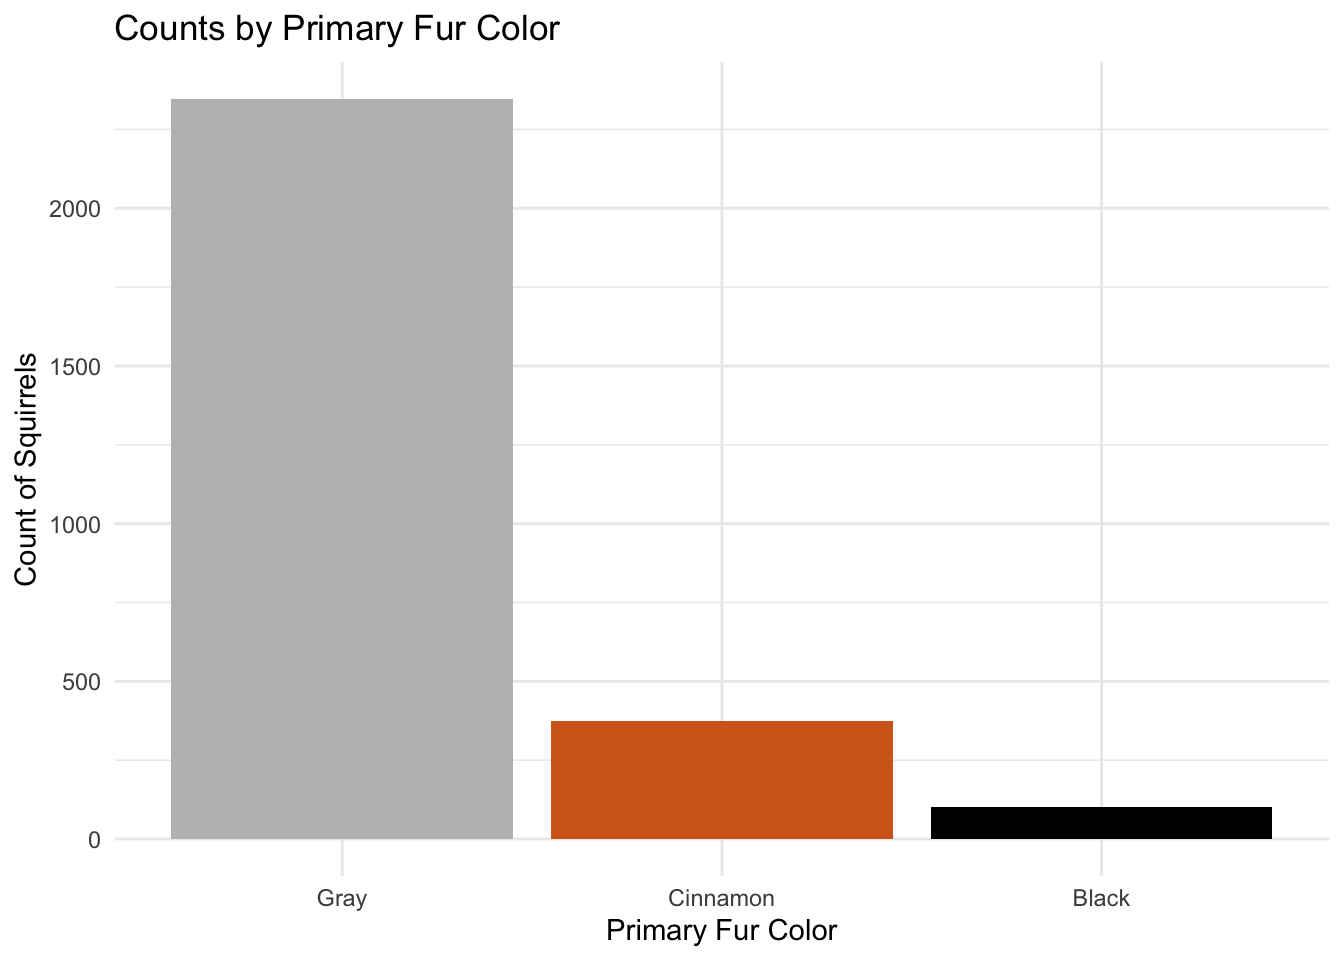
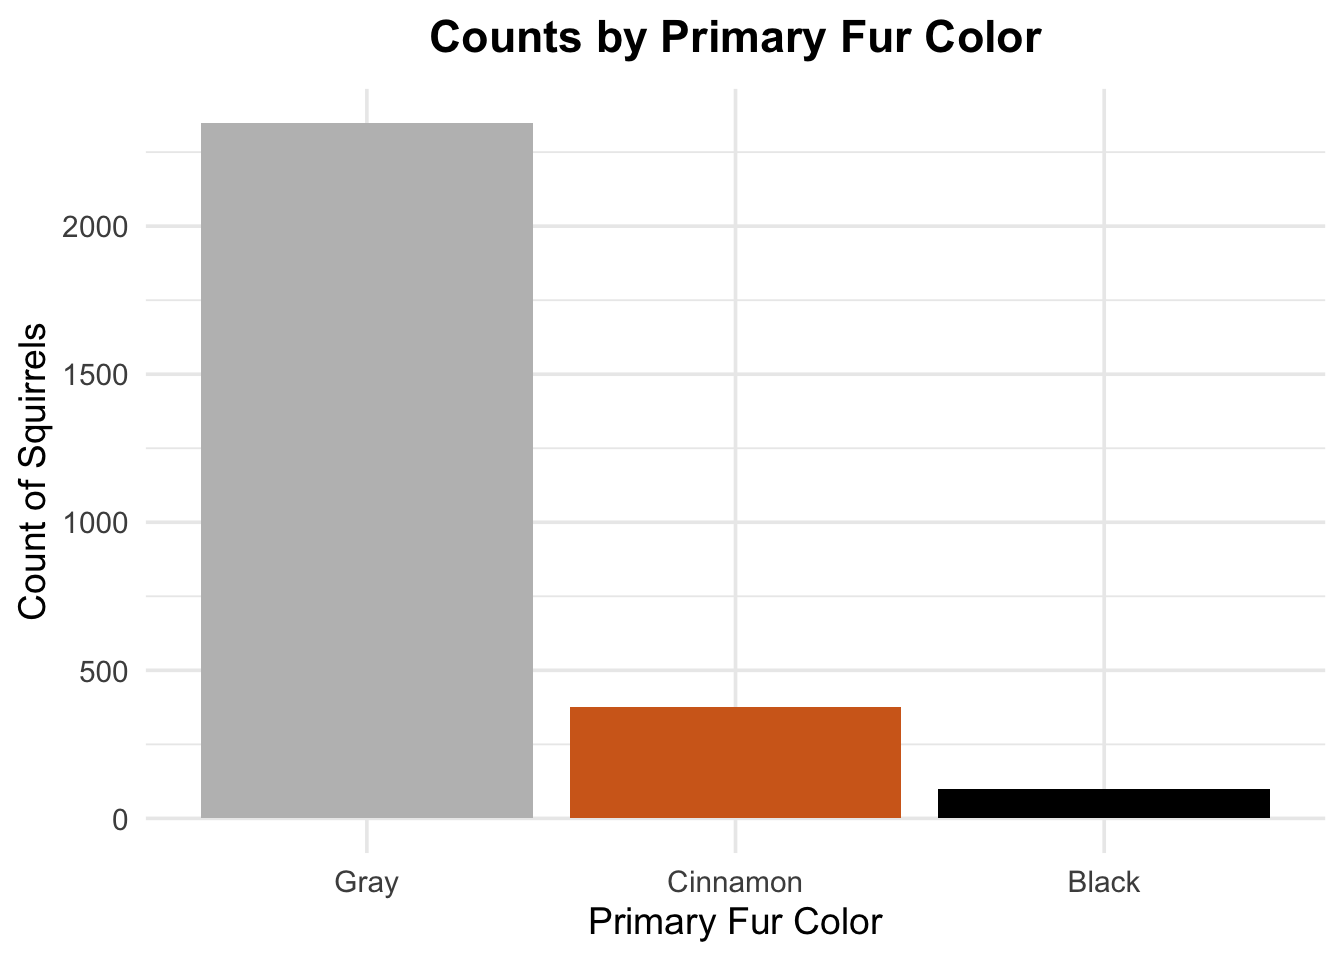
Last Update

diff --git a/docs/results.html b/docs/results.html
@@ -561,7 +561,7 @@ pre > code.sourceCode > span > a:first-child::before { text-decoration: underlin
 </section>
 <section id="exploration-of-squirrels-of-different-primary-fur-color" class="level2" data-number="3.2">
 <h2 data-number="3.2" class="anchored" data-anchor-id="exploration-of-squirrels-of-different-primary-fur-color"><span class="header-section-number">3.2</span> Exploration of squirrels of different Primary Fur Color</h2>
-<p><strong>General Questions</strong>: How do black, cinnamon and standard gray morphs of Eastern Gray squirrels (Sciurus Carolinensis) differ in their spatial distributions and activity patterns in Central Park?</p>
+<p>While all these squirrels are Eastern Gray squirrels, not all of them have gray fur color. The Primary Fur Color column in our dataset documents the color of the squirrels being sighted. We wonder if there is any interesting difference if we look at squirrels with different colors separately. We will explore that in this section.</p>
 <section id="what-is-the-total-number-of-sightings-of-black-cinnamon-and-gray-morphs-of-eastern-gray-squirrels-within-central-park" class="level3" data-number="3.2.1">
 <h3 data-number="3.2.1" class="anchored" data-anchor-id="what-is-the-total-number-of-sightings-of-black-cinnamon-and-gray-morphs-of-eastern-gray-squirrels-within-central-park"><span class="header-section-number">3.2.1</span> What is the total number of sightings of black, cinnamon, and gray morphs of Eastern Gray squirrels within Central Park?</h3>
 <div class="cell">
@@ -570,13 +570,15 @@ pre > code.sourceCode > span > a:first-child::before { text-decoration: underlin
 <div class="sourceCode cell-code" id="cb8"><pre class="sourceCode r code-with-copy"><code class="sourceCode r"><span id="cb8-1"><a href="#cb8-1" aria-hidden="true" tabindex="-1"></a><span class="fu">ggplot</span>(squirrel_data, <span class="fu">aes</span>(<span class="at">x =</span> <span class="fu">fct_infreq</span>(Primary.Fur.Color), <span class="at">fill =</span> Primary.Fur.Color)) <span class="sc">+</span></span>
 <span id="cb8-2"><a href="#cb8-2" aria-hidden="true" tabindex="-1"></a>  <span class="fu">geom_bar</span>() <span class="sc">+</span></span>
 <span id="cb8-3"><a href="#cb8-3" aria-hidden="true" tabindex="-1"></a>  <span class="fu">labs</span>(</span>
-<span id="cb8-4"><a href="#cb8-4" aria-hidden="true" tabindex="-1"></a>    <span class="at">title =</span> <span class="st">"Counts by Primary Fur Color"</span>,</span>
+<span id="cb8-4"><a href="#cb8-4" aria-hidden="true" tabindex="-1"></a>    <span class="at">title =</span> <span class="fu">expression</span>(<span class="fu">bold</span>(<span class="st">"Counts by Primary Fur Color"</span>)),</span>
 <span id="cb8-5"><a href="#cb8-5" aria-hidden="true" tabindex="-1"></a>    <span class="at">x =</span> <span class="st">"Primary Fur Color"</span>,</span>
 <span id="cb8-6"><a href="#cb8-6" aria-hidden="true" tabindex="-1"></a>    <span class="at">y =</span> <span class="st">"Count of Squirrels"</span></span>
 <span id="cb8-7"><a href="#cb8-7" aria-hidden="true" tabindex="-1"></a>  ) <span class="sc">+</span></span>
-<span id="cb8-8"><a href="#cb8-8" aria-hidden="true" tabindex="-1"></a>  <span class="fu">theme</span>(<span class="at">legend.position =</span> <span class="st">"none"</span>) <span class="sc">+</span></span>
-<span id="cb8-9"><a href="#cb8-9" aria-hidden="true" tabindex="-1"></a>  <span class="fu">theme_minimal</span>() <span class="sc">+</span></span>
-<span id="cb8-10"><a href="#cb8-10" aria-hidden="true" tabindex="-1"></a>  <span class="fu">scale_fill_manual</span>(<span class="at">values =</span> <span class="fu">c</span>(<span class="st">'black'</span>, <span class="st">'#D2691E'</span>, <span class="st">'grey'</span>), <span class="at">guide =</span> <span class="cn">FALSE</span>) </span></code><button title="Copy to Clipboard" class="code-copy-button"><i class="bi"></i></button></pre></div>
+<span id="cb8-8"><a href="#cb8-8" aria-hidden="true" tabindex="-1"></a>  <span class="fu">theme_minimal</span>(<span class="dv">14</span>) <span class="sc">+</span></span>
+<span id="cb8-9"><a href="#cb8-9" aria-hidden="true" tabindex="-1"></a>  <span class="fu">theme</span>(</span>
+<span id="cb8-10"><a href="#cb8-10" aria-hidden="true" tabindex="-1"></a>    <span class="at">legend.position =</span> <span class="st">"none"</span>,</span>
+<span id="cb8-11"><a href="#cb8-11" aria-hidden="true" tabindex="-1"></a>    <span class="at">plot.title =</span> <span class="fu">element_text</span>(<span class="at">hjust =</span> <span class="fl">0.5</span>)) <span class="sc">+</span></span>
+<span id="cb8-12"><a href="#cb8-12" aria-hidden="true" tabindex="-1"></a>  <span class="fu">scale_fill_manual</span>(<span class="at">values =</span> <span class="fu">c</span>(<span class="st">'black'</span>, <span class="st">'#D2691E'</span>, <span class="st">'grey'</span>), <span class="at">guide =</span> <span class="cn">FALSE</span>) </span></code><button title="Copy to Clipboard" class="code-copy-button"><i class="bi"></i></button></pre></div>
 </details>
 <div class="cell-output-display">
 <div>
@@ -586,23 +588,27 @@ pre > code.sourceCode > span > a:first-child::before { text-decoration: underlin
 </div>
 </div>
 </div>
-<p>The bar plot shows that Eastern Gray squirrels with gray fur are the most commonly sighted in Central Park, with over 2,000 observations. Cinnamon-colored squirrels are less common, with several hundred sightings, while black-colored squirrels are the rarest, with fewer than 500 sightings. This is reasonable since Eastern Gray squirrels are the most prevalent squirrels in the central park.</p>
+<p>The bar plot shows that Eastern Gray squirrels with gray fur are the most commonly sighted in Central Park, with over 2,000 encounters. Cinnamon-colored squirrels are less common, with less than 500 sightings, while black-colored squirrels are the rarest, with fewer than 250 sightings.</p>
 </section>
 <section id="what-is-the-spatial-distribution-of-black-cinnamon-and-gray-morphs-of-eastern-gray-squirrels-across-central-park" class="level3" data-number="3.2.2">
 <h3 data-number="3.2.2" class="anchored" data-anchor-id="what-is-the-spatial-distribution-of-black-cinnamon-and-gray-morphs-of-eastern-gray-squirrels-across-central-park"><span class="header-section-number">3.2.2</span> What is the spatial distribution of black, cinnamon, and gray morphs of Eastern Gray squirrels across Central Park?</h3>
 <div class="cell">
 <details class="code-fold">
 <summary>Code</summary>
-<div class="sourceCode cell-code" id="cb9"><pre class="sourceCode r code-with-copy"><code class="sourceCode r"><span id="cb9-1"><a href="#cb9-1" aria-hidden="true" tabindex="-1"></a>coord_sf_obj <span class="ot">&lt;-</span> squirrel_data <span class="sc">|&gt;</span></span>
-<span id="cb9-2"><a href="#cb9-2" aria-hidden="true" tabindex="-1"></a>  <span class="fu">st_as_sf</span>(<span class="at">coords =</span> <span class="fu">c</span>(<span class="st">'X'</span>, <span class="st">'Y'</span>), <span class="at">crs =</span> <span class="dv">4326</span>) <span class="co"># crs=4326 refers to the "Coordinate Reference System" with EPSG code 4326. This ensures the coordinates are plot correctly.</span></span>
-<span id="cb9-3"><a href="#cb9-3" aria-hidden="true" tabindex="-1"></a></span>
-<span id="cb9-4"><a href="#cb9-4" aria-hidden="true" tabindex="-1"></a><span class="fu">ggplot</span>() <span class="sc">+</span> </span>
-<span id="cb9-5"><a href="#cb9-5" aria-hidden="true" tabindex="-1"></a>    <span class="fu">geom_sf</span>(<span class="at">data =</span> coord_sf_obj, <span class="fu">aes</span>(<span class="at">color =</span> squirrel_data<span class="sc">$</span>Primary.Fur.Color), </span>
-<span id="cb9-6"><a href="#cb9-6" aria-hidden="true" tabindex="-1"></a>            <span class="at">size =</span> <span class="fl">1.5</span>, <span class="at">shape =</span> <span class="dv">1</span>, <span class="at">alpha =</span> .<span class="dv">7</span>) <span class="sc">+</span> </span>
-<span id="cb9-7"><a href="#cb9-7" aria-hidden="true" tabindex="-1"></a>    <span class="fu">scale_colour_manual</span>(<span class="at">values =</span> <span class="fu">c</span>(<span class="st">'black'</span>, <span class="st">'#D2691E'</span>, <span class="st">'grey'</span>)) <span class="sc">+</span> </span>
-<span id="cb9-8"><a href="#cb9-8" aria-hidden="true" tabindex="-1"></a>    <span class="fu">theme_minimal</span>()  <span class="sc">+</span></span>
-<span id="cb9-9"><a href="#cb9-9" aria-hidden="true" tabindex="-1"></a>    <span class="fu">labs</span>(<span class="at">title =</span> <span class="st">'Squirrel Sighting Locations by Color'</span>, </span>
-<span id="cb9-10"><a href="#cb9-10" aria-hidden="true" tabindex="-1"></a>         <span class="at">color =</span> <span class="st">'Primary Fur Color'</span>)</span></code><button title="Copy to Clipboard" class="code-copy-button"><i class="bi"></i></button></pre></div>
+<div class="sourceCode cell-code" id="cb9"><pre class="sourceCode r code-with-copy"><code class="sourceCode r"><span id="cb9-1"><a href="#cb9-1" aria-hidden="true" tabindex="-1"></a><span class="co"># Change the locations data into simple feature format so it can be passed into by geom_sf</span></span>
+<span id="cb9-2"><a href="#cb9-2" aria-hidden="true" tabindex="-1"></a>coord_sf_obj <span class="ot">&lt;-</span> squirrel_data <span class="sc">|&gt;</span></span>
+<span id="cb9-3"><a href="#cb9-3" aria-hidden="true" tabindex="-1"></a>  <span class="fu">st_as_sf</span>(<span class="at">coords =</span> <span class="fu">c</span>(<span class="st">'X'</span>, <span class="st">'Y'</span>), <span class="at">crs =</span> <span class="dv">4326</span>) <span class="co"># crs=4326 refers to the "Coordinate Reference System" with EPSG code 4326. This ensures the coordinates are plot correctly.</span></span>
+<span id="cb9-4"><a href="#cb9-4" aria-hidden="true" tabindex="-1"></a></span>
+<span id="cb9-5"><a href="#cb9-5" aria-hidden="true" tabindex="-1"></a><span class="fu">ggplot</span>() <span class="sc">+</span> </span>
+<span id="cb9-6"><a href="#cb9-6" aria-hidden="true" tabindex="-1"></a>    <span class="fu">geom_sf</span>(<span class="at">data =</span> coord_sf_obj, <span class="fu">aes</span>(<span class="at">color =</span> squirrel_data<span class="sc">$</span>Primary.Fur.Color), </span>
+<span id="cb9-7"><a href="#cb9-7" aria-hidden="true" tabindex="-1"></a>            <span class="at">size =</span> <span class="fl">1.5</span>, <span class="at">shape =</span> <span class="dv">1</span>, <span class="at">alpha =</span> .<span class="dv">7</span>) <span class="sc">+</span> </span>
+<span id="cb9-8"><a href="#cb9-8" aria-hidden="true" tabindex="-1"></a>    <span class="fu">scale_colour_manual</span>(<span class="at">values =</span> <span class="fu">c</span>(<span class="st">'black'</span>, <span class="st">'#D2691E'</span>, <span class="st">'grey'</span>)) <span class="sc">+</span> </span>
+<span id="cb9-9"><a href="#cb9-9" aria-hidden="true" tabindex="-1"></a>    <span class="fu">theme_minimal</span>(<span class="dv">14</span>)  <span class="sc">+</span></span>
+<span id="cb9-10"><a href="#cb9-10" aria-hidden="true" tabindex="-1"></a>    <span class="fu">labs</span>(<span class="at">title =</span> <span class="fu">expression</span>(<span class="fu">bold</span>(<span class="st">'Squirrel Sighting Locations by Color'</span>)), </span>
+<span id="cb9-11"><a href="#cb9-11" aria-hidden="true" tabindex="-1"></a>         <span class="at">color =</span> <span class="st">'Primary Fur Color'</span>) <span class="sc">+</span></span>
+<span id="cb9-12"><a href="#cb9-12" aria-hidden="true" tabindex="-1"></a>    <span class="fu">theme</span>(</span>
+<span id="cb9-13"><a href="#cb9-13" aria-hidden="true" tabindex="-1"></a>      <span class="at">plot.title =</span> <span class="fu">element_text</span>(<span class="at">hjust =</span> <span class="fl">0.5</span>),</span>
+<span id="cb9-14"><a href="#cb9-14" aria-hidden="true" tabindex="-1"></a>      <span class="at">axis.text.x =</span> <span class="fu">element_text</span>(<span class="at">angle =</span> <span class="dv">45</span>, <span class="at">hjust =</span> <span class="dv">1</span>, <span class="at">size =</span> <span class="dv">12</span>))</span></code><button title="Copy to Clipboard" class="code-copy-button"><i class="bi"></i></button></pre></div>
 </details>
 <div class="cell-output-display">
 <div>
@@ -612,15 +618,15 @@ pre > code.sourceCode > span > a:first-child::before { text-decoration: underlin
 </div>
 </div>
 </div>
-<p>The map shows that Gray squirrels seem to donimate the central park. They are widespread and seen almost everywhere on the map. Cinnamon-colored squirrels are less common and appear more scattered on the lower side of the park. Black squirrels are the rarest, with only a few sightings concentrated in specific areas. Such data might because of the ways of data collection that there might only be several black squirrels and the data are clustered because different people sighted it around it’s drey at different time.</p>
+<p>The map shows that gray fur color is the dominating fur color in the central park. They spread across the central park area and are almost everywhere. Cinnamon-colored squirrels are less common and sighted mostly around the south side of the park with several scattered on the north side. Black squirrels are the rarest, with only a few sightings concentrated in specific areas such as north of the Jacqueline Kennedy Onassis Reservoir and south-east side of the park.</p>
 </section>
 <section id="how-do-sighted-behaviors-differ-among-black-cinnamon-and-gray-morphs-of-eastern-gray-squirrels-in-central-park" class="level3" data-number="3.2.3">
 <h3 data-number="3.2.3" class="anchored" data-anchor-id="how-do-sighted-behaviors-differ-among-black-cinnamon-and-gray-morphs-of-eastern-gray-squirrels-in-central-park"><span class="header-section-number">3.2.3</span> How do sighted behaviors differ among black, cinnamon, and gray morphs of Eastern Gray squirrels in Central Park?</h3>
-<p>As the number of squirrels with different colors are largely imbalanced, we plot the stacked proportion bar plot to explore if sighted behaviors differ among black, cinnamon, and gray squirrels.</p>
+<p>As the number of squirrels with different colors are largely imbalanced, we wish to explore if sighted behaviors differ among black, cinnamon, and gray squirrels.</p>
 <div class="cell">
 <details class="code-fold">
 <summary>Code</summary>
-<div class="sourceCode cell-code" id="cb10"><pre class="sourceCode r code-with-copy"><code class="sourceCode r"><span id="cb10-1"><a href="#cb10-1" aria-hidden="true" tabindex="-1"></a><span class="co"># assuming squirrel_data has columns like Primary.Fur.Color, Running, Chasing, Climbing, Eating, Foraging </span></span>
+<div class="sourceCode cell-code" id="cb10"><pre class="sourceCode r code-with-copy"><code class="sourceCode r"><span id="cb10-1"><a href="#cb10-1" aria-hidden="true" tabindex="-1"></a><span class="co"># Use pivot longer to reduce the column numbers for plotting</span></span>
 <span id="cb10-2"><a href="#cb10-2" aria-hidden="true" tabindex="-1"></a>proportion_data <span class="ot">&lt;-</span> squirrel_data <span class="sc">|&gt;</span></span>
 <span id="cb10-3"><a href="#cb10-3" aria-hidden="true" tabindex="-1"></a>  <span class="fu">pivot_longer</span>(</span>
 <span id="cb10-4"><a href="#cb10-4" aria-hidden="true" tabindex="-1"></a>    <span class="at">cols =</span> <span class="fu">c</span>(Running, Chasing, Climbing, Eating, Foraging), </span>
@@ -636,13 +642,14 @@ pre > code.sourceCode > span > a:first-child::before { text-decoration: underlin
 <span id="cb10-14"><a href="#cb10-14" aria-hidden="true" tabindex="-1"></a>  <span class="fu">geom_col</span>(<span class="at">position =</span> <span class="st">"fill"</span>, <span class="at">color =</span> <span class="st">"black"</span>) <span class="sc">+</span></span>
 <span id="cb10-15"><a href="#cb10-15" aria-hidden="true" tabindex="-1"></a>  <span class="fu">scale_y_continuous</span>(<span class="at">labels =</span> scales<span class="sc">::</span><span class="fu">percent_format</span>()) <span class="sc">+</span></span>
 <span id="cb10-16"><a href="#cb10-16" aria-hidden="true" tabindex="-1"></a>  <span class="fu">labs</span>(</span>
-<span id="cb10-17"><a href="#cb10-17" aria-hidden="true" tabindex="-1"></a>    <span class="at">title =</span> <span class="st">"Proportion of Behaviors by Primary Fur Color"</span>,</span>
+<span id="cb10-17"><a href="#cb10-17" aria-hidden="true" tabindex="-1"></a>    <span class="at">title =</span> <span class="fu">expression</span>(<span class="fu">bold</span>(<span class="st">'Squirrel Behaviors by Primary Fur Color'</span>)),</span>
 <span id="cb10-18"><a href="#cb10-18" aria-hidden="true" tabindex="-1"></a>    <span class="at">x =</span> <span class="st">"Primary Fur Color"</span>,</span>
 <span id="cb10-19"><a href="#cb10-19" aria-hidden="true" tabindex="-1"></a>    <span class="at">y =</span> <span class="st">"Proportion of Squirrels"</span>,</span>
 <span id="cb10-20"><a href="#cb10-20" aria-hidden="true" tabindex="-1"></a>    <span class="at">fill =</span> <span class="st">"Behavior"</span></span>
 <span id="cb10-21"><a href="#cb10-21" aria-hidden="true" tabindex="-1"></a>  ) <span class="sc">+</span></span>
-<span id="cb10-22"><a href="#cb10-22" aria-hidden="true" tabindex="-1"></a>  <span class="fu">theme_minimal</span>() <span class="sc">+</span></span>
-<span id="cb10-23"><a href="#cb10-23" aria-hidden="true" tabindex="-1"></a>  <span class="fu">scale_fill_paletteer_d</span>(<span class="st">"ggthemes::Miller_Stone"</span>, <span class="at">direction =</span> <span class="sc">-</span><span class="dv">1</span>)</span></code><button title="Copy to Clipboard" class="code-copy-button"><i class="bi"></i></button></pre></div>
+<span id="cb10-22"><a href="#cb10-22" aria-hidden="true" tabindex="-1"></a>  <span class="fu">theme_minimal</span>(<span class="dv">14</span>) <span class="sc">+</span></span>
+<span id="cb10-23"><a href="#cb10-23" aria-hidden="true" tabindex="-1"></a>  <span class="fu">theme</span>(<span class="at">plot.title =</span> <span class="fu">element_text</span>(<span class="at">hjust =</span> <span class="fl">0.5</span>)) <span class="sc">+</span></span>
+<span id="cb10-24"><a href="#cb10-24" aria-hidden="true" tabindex="-1"></a>  <span class="fu">scale_fill_paletteer_d</span>(<span class="st">"ggthemes::Miller_Stone"</span>, <span class="at">direction =</span> <span class="sc">-</span><span class="dv">1</span>)</span></code><button title="Copy to Clipboard" class="code-copy-button"><i class="bi"></i></button></pre></div>
 </details>
 <div class="cell-output-display">
 <div>
@@ -652,7 +659,7 @@ pre > code.sourceCode > span > a:first-child::before { text-decoration: underlin
 </div>
 </div>
 </div>
-<p>The plot shows that in Central Park appears uniform across fur colors, with foraging and running being the most frequent activities while squirrels are sighted.</p>
+<p>However, the difference seems to stay only on primary fur colors. The proportion of behaviors are very similar across squirrels with different fur colors. Foraging is the most frequent sighted activities, taking more than 25%. Climbing, eating and running are all around 20%. Chasing is the least sighted activity, only about 5%.</p>
 
 
 </section>

diff --git a/docs/conclusion.html b/docs/conclusion.html
@@ -168,6 +168,15 @@ ul.task-list li input[type="checkbox"] {
 </header>
 
 
+<p>Our exploration on 2018 Central Park Squirrel Census dataset reveals several intriguing patterns of Eastern Gray squirrels in their distribution, behavior, and interaction with humans. Spatially, while squirrels are found throughout the park, they have clusters in specific areas, like the north of Jacqueline Kennedy Onassis Reservoir, the middle of the park, and the southwest corner.</p>
+<p>Time-wise, we found a consistent activity patterns across morning and late afternoon shifts, with notable peaks in sighting frequency around October 7th and 13th. This patterns may be influenced by data collection methods as weekend dates showing increased sightings due to higher volunteer availability. Some dates have higher frequency in one shift than other, which may due to weather as rainy weather affecting both squirrel visibility and their activities.</p>
+<p>Behaviorally, foraging is the dominant activity. It comprises approximately 60% of adult squirrel sightings and 50% of juvenile sightings. Juvenile squirrels were more energetic, engaging more frequently in running, climbing, and chasing behaviors compared to adults. Location seems to influence behavior patterns, with ground-level squirrels showing more running and foraging activities, while squirrels on trees exhibit more climbing and chasing behaviors.</p>
+<p>Regarding interaction with humans when being sighted, squirrels generally showed avoidance behavior or indifference to human presence. However, those in the southern part of the park were more likely to approach humans while foraging or eating. This suggests possible habituation to human presence in high-traffic areas. We also found that when squirrels approaching huamans, they consistently make Kuks sounds regardless of their locations. Meanwhile, Moans were specifically associated with above-ground escape behaviors.</p>
+<p>We also studied interesting fur color patterns, with gray being the predominant fur color (over 2,000 sightings), followed by cinnamon (under 500 sightings), and black (fewer than 250 sightings). While these color morphs showed distinct spatial distribution patterns, with black squirrels concentrated near the Reservoir and southeast park areas, and cinnamon squirrels more common in the south, their behavioral patterns remained consistent across all color variations.</p>
+<p><strong>Limitations</strong><br>
+This dataset represents individual sighting moments without mechanisms for tracking unique squirrels over time. While there is an estimated of 2,373 Eastern Gray squirrels in Central Park, the dataset includes over 3,000 sightings. This discrepancy suggests that some squirrels were likely recorded multiple times. Such repeated sightings can occur when the same squirrel is observed at different times, in different locations, or even during the same observation session. Thus it may not accurately reflect the distribution of the squirrels, especially coming to distribution of squirrels with different fur colors.</p>
+<p>Additionally, the data collection was conducted manually by volunteers, which introduces potential biases. While the volunteers objectively recorded behaviors, subjective differences among data collectors might influence observations, particularly in interpreting interactions with humans. For example, behaviors such as approaching or fleeing from humans might vary depending on the volunteers’ behavior during the observations. These inconsistencies could affect the reliability of the interaction data. Also, weekend observations may be over-represented due to higher volunteer availability.</p>
+<p>Lastly, Squirrel behaviors are likely influenced by seasonal changes, weather conditions, and food availability. But the data was only collected within 20 consecutive days. It would be more comprehensive to collect data throughout the years or even across different years. However, since this is a volunteering project, the resources are very limited.</p>
 
 
 
